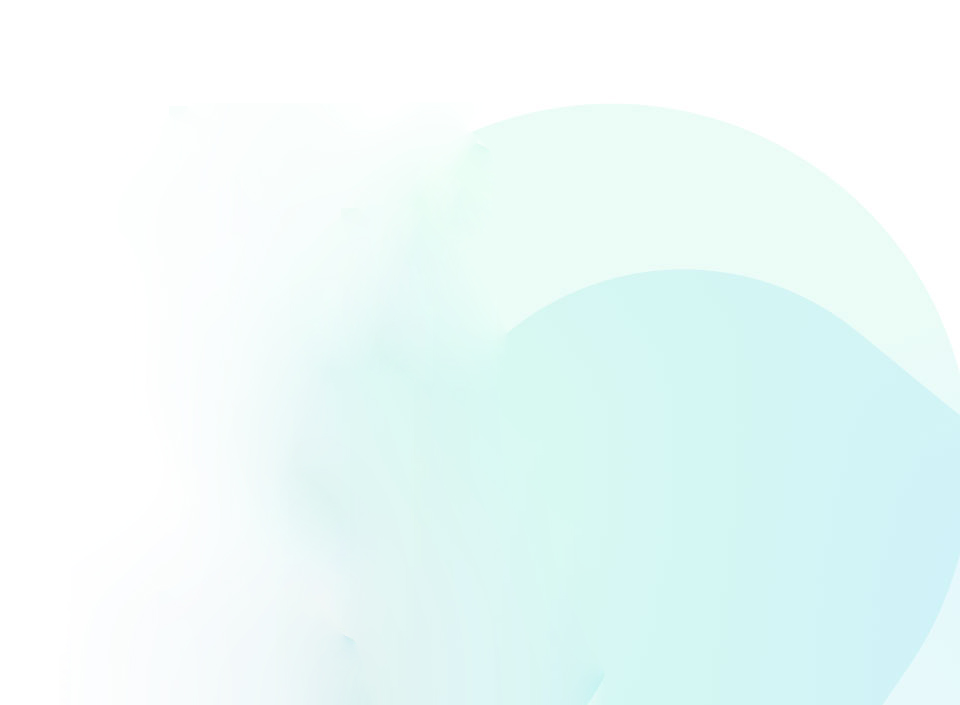
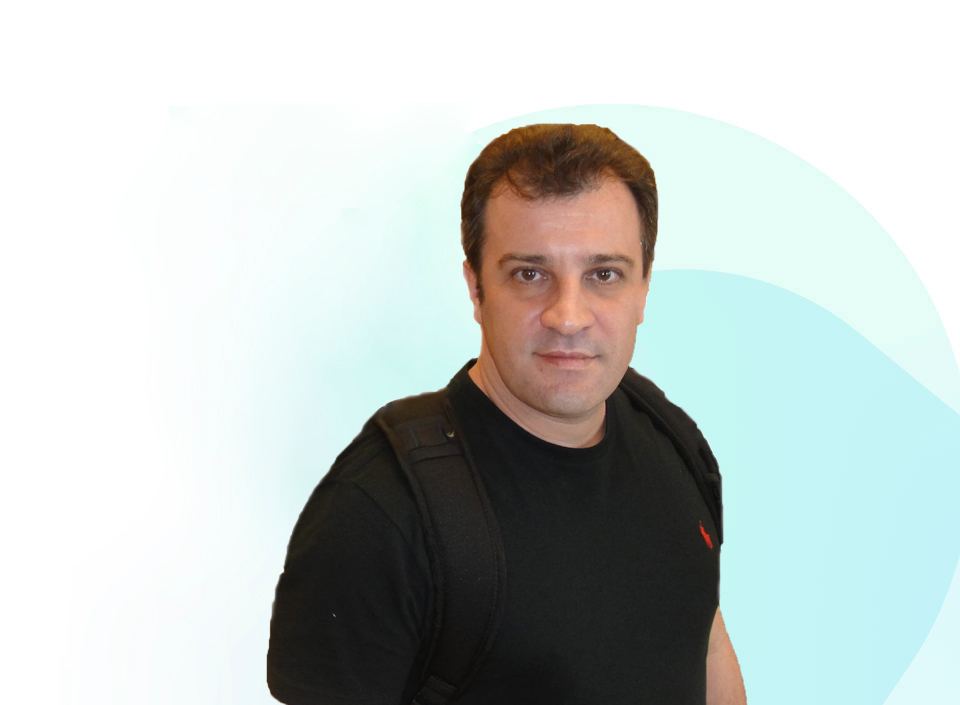
Adicionado Imagem do Dr.

Changed region(s): [[0.25, 0.156, 0.7812, 1.0]]

diff --git a/index.html b/index.html
@@ -265,7 +265,7 @@
               <div class="col-lg-6">
                   <div class="image-container">
                       <img class="img-fluid"
-                          src="images/details-1-office-worker.svg"
+                          src="images/fundo.jpg"
                           alt="alternative">
                   </div> <!-- end of image-container -->
               </div> <!-- end of col -->
